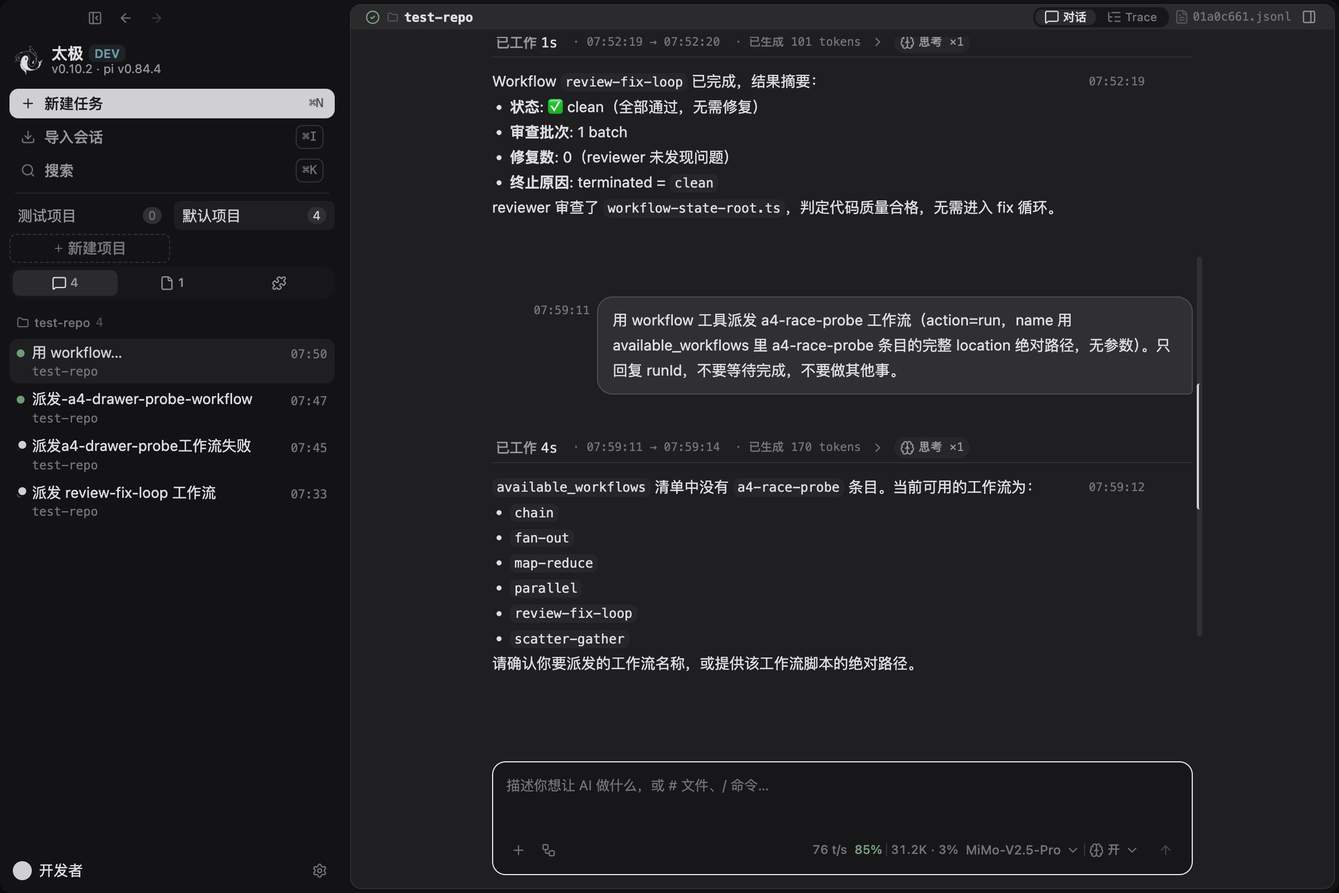
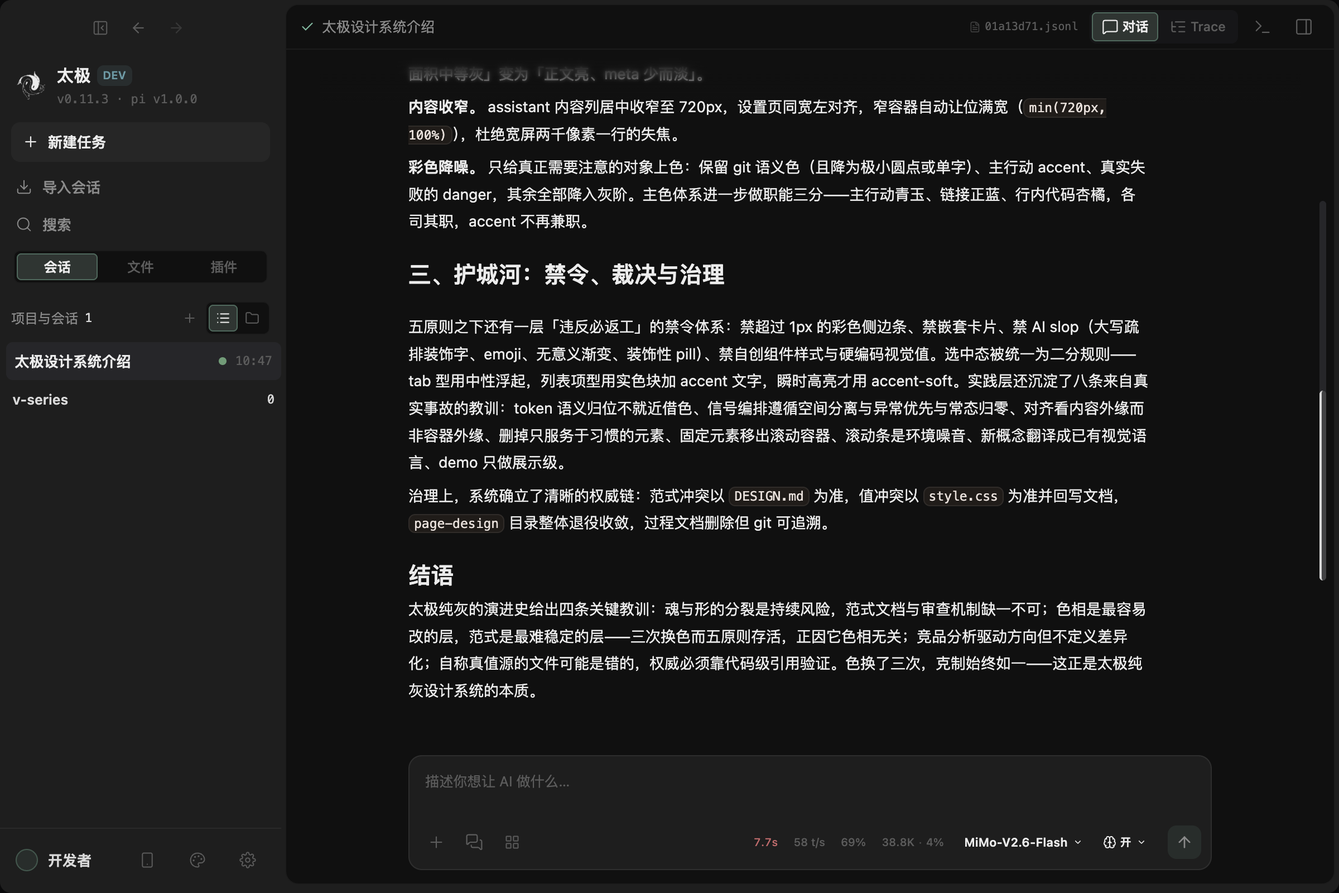
feat(skills): migrate dev-flow-wf artifacts to skill-data + word-scan mian inventory
- dev-flow-wf: artifact root moves from in-project .tmp/ to
  ~/.agents/skill-data/<project-slug>/ (HOME, naturally outside git);
  add single-wave delivery rule (one design package = one run, no
  user-instructed wave splitting); sync-planner gains files hard
  constraint (repo-internal existing files only, engine-validated)
- word-scan.py: add --mian-scan mode to inventory "面" compound words
  outside the wordlist; fix variant splitting for prose-prefixed cells
  and add 板/向 negative lookahead for 面-family false positives
- browser-automation: replace verify-demo-tmp/verify-final with a2-*
  probe scripts (autoswitch, clickblock, ws-probe); refresh screenshot

diff --git a/skills/self/prompting/meta-words-guidance/scripts/word-scan.py b/skills/self/prompting/meta-words-guidance/scripts/word-scan.py
@@ -6,6 +6,9 @@
     word-scan.py --watch ...         追加「观察名单」（待裁决词，仅提示）
     word-scan.py --conditional ...   追加「带条件保留表」（能用但需解释，仅提示）
     word-scan.py --all ...           三张表全扫
+    word-scan.py --mian-scan ...     面族候选盘点：枚举「面」复合构词（前后各 5 字
+                                     上下文），过滤白名单与已收录词面，输出待判断
+                                     候选（词表外同族词发现用，非命中报告）
     word-scan.py --wordlist <path>   指定词表文件（默认全局 AGENTS.md：
                                      ~/.zcode/AGENTS.md，回退 ~/.pi/agent/AGENTS.md）
 
@@ -55,14 +58,21 @@ ALL_TABLE_NAMES = (*TABLE_HEADERS, WHITELIST_TABLE)
 
 
 def split_variants(cell):
-    """把词表单元格拆成可匹配词面：去括号注、按 / 与 、拆分；括号内含 / 时并入变体。"""
+    """把词表单元格拆成可匹配词面：去括号注、按 / 与 、拆分；括号中含 / 的括号注并入变体。
+
+     prose 前缀剥离：单元格若含全角冒号（如面族条目的
+    「面族「XX 面」构词（...）：调用面 / 拒绝面 / ...」），冒号前是说明文字而非词面，
+    首个变体否则会被粘在前缀上永远匹配不到；变体尾部的「等」同理剥掉（枚举未尽标记）。
+    """
     parens = re.findall(r"[（(]([^（）()]*)[）)]", cell)
     base = re.sub(r"[（(][^（）()]*[）)]", "", cell)
+    if "：" in base:
+        base = base.split("：", 1)[1]
     parts = [base] + [p for p in parens if "/" in p]
     variants = []
     for part in parts:
         for v in re.split(r"\s*/\s*|、", part):
-            v = v.strip()
+            v = v.strip().rstrip("等")
             if v:
                 variants.append(v)
     return variants
@@ -72,6 +82,10 @@ def to_regex(term):
     pat = re.escape(term).replace("…", r".{0,30}?")
     if re.fullmatch(r"[A-Za-z0-9_-]+", term):
         pat = rf"(?<![A-Za-z0-9_-]){pat}(?![A-Za-z0-9_-])"
+    elif term.endswith("面"):
+        # 面族词的负向断言：后接「板」（XX面板，标准 UI 术语）或「向」（面向，动词）时
+        # 是子串误报——「聚合面∈聚合面板」「扩展面∈扩展面向」，非该族词的名词用法
+        pat = rf"{pat}(?![板向])"
     return re.compile(pat)
 
 
@@ -180,12 +194,63 @@ def scan_file(path, terms, is_wordlist):
     return hits, None
 
 
+def mian_inventory(paths, table_surfaces, whitelist):
+    """面族候选盘点（--mian-scan）：枚举「面」的复合构词，供词表外同族词发现。
+
+    对每个「面」出现点：取构成复合词（面结尾的最长中文串，≤6 字，剥前导虚词）+ 前 5 字
+    + 后 5 字上下文，按复合词聚合（次数 / 文件数 / 样本）。裸「面」（面向/面板/方面等
+    通用用法）与含虚词的语法碎片不构成候选。过滤两类已接管项：白名单词（如影响面）、
+    复合词含替换表词面为子串者（常规扫描已覆盖）。剩余即待判断候选——由人或 agent
+    按「X 的作用面」同族构词判据逐词裁定（通用词/标准术语如门面、切面、负面不属该族）。
+    跳过构建产物目录（apps/electron/resources/）与测试报告（test-results/）。
+    """
+    # 前导虚词（单字集合）：剥掉后剩下的才是词根（「…的导出面」→「导出面」）。
+    # 注意：必须是单字集合——lstrip 按字符集剥离，多字条目（如「依据」）会把「依赖面」
+    # 误剥成「赖面」这类尾坠；含虚词的复合词不再整体丢弃（「文本探针依赖面」是真实术语，
+    # 虚词判定交给判断方），只剥前导。
+    particles = "的了与和及该此各其或而则即都也还就才只把被从向对为以于在是有每另等随按"
+    compounds = {}
+    for f in iter_files(paths):
+        ps = str(f)
+        if ps.startswith("apps/electron/resources/") or "test-results" in ps:
+            continue
+        try:
+            text = f.read_text(encoding="utf-8")
+        except (OSError, UnicodeDecodeError):
+            continue
+        for lineno, line in enumerate(text.splitlines(), 1):
+            for m in re.finditer("面", line):
+                i = m.start()
+                before, after = line[:i], line[i + 1:]
+                run = []
+                for ch in reversed(before):
+                    if "\u4e00" <= ch <= "\u9fff" and len(run) < 8:
+                        run.append(ch)
+                    else:
+                        break
+                core = "".join(reversed(run))
+                while core and core[0] in particles:
+                    core = core[1:]
+                compound = core + "面"
+                if not core or compound in whitelist:
+                    continue
+                if any(s in compound for s in table_surfaces):
+                    continue
+                entry = compounds.setdefault(compound, {"count": 0, "files": set(), "samples": []})
+                entry["count"] += 1
+                entry["files"].add(ps)
+                if len(entry["samples"]) < 3:
+                    entry["samples"].append(f"{ps}:{lineno}: …{before[-5:]}【面】{after[:5]}…")
+    return compounds
+
+
 def main():
     ap = argparse.ArgumentParser(description="扫描文档命中用语词表的位置（详见文件头注释）")
     ap.add_argument("paths", nargs="+", help="文件或目录，可多个")
     ap.add_argument("--watch", action="store_true", help="追加观察名单")
     ap.add_argument("--conditional", action="store_true", help="追加带条件保留表")
     ap.add_argument("--all", action="store_true", help="三张表全扫")
+    ap.add_argument("--mian-scan", action="store_true", help="面族候选盘点：枚举「面」复合构词（前后各 5 字上下文），过滤白名单与已收录词面后输出待判断候选")
     ap.add_argument("--wordlist", type=Path, default=DEFAULT_WORDLIST, help="词表文件路径")
     args = ap.parse_args()
 
@@ -212,6 +277,17 @@ def main():
         for w in conflicts:
             print(f"错误：词「{w}」同时登记在白名单与其他表中，放行与限制矛盾——先修词表再扫描", file=sys.stderr)
         return 2
+
+    if args.mian_scan:
+        surfaces = {v for _, v, _, _ in full_terms}
+        inventory = mian_inventory(args.paths, surfaces, whitelist)
+        for compound, entry in sorted(inventory.items(), key=lambda kv: -kv[1]["count"]):
+            print(f"{compound}｜{entry['count']} 处｜{len(entry['files'])} 文件")
+            for s in entry["samples"]:
+                print(f"    {s}")
+        print(f"{len(inventory)} 个候选复合词（已过滤白名单与替换表已收录词面；通用词/标准术语需判断后剔除）")
+        return 0
+
     all_hits, skipped = [], 0
     wordlist_resolved = args.wordlist.resolve()
     for f in iter_files(args.paths):

diff --git a/skills/self/dev-workflow/dev-flow-wf/SKILL.md b/skills/self/dev-workflow/dev-flow-wf/SKILL.md
@@ -18,14 +18,14 @@ description: >-
 
 ## 设计包入口门 [MANDATORY]（机械可查）
 
-入口逐行核对（任一缺失 → 拒绝并指明缺什么、回 tech-design-wf 哪个阶段补）：
+入口逐行核对（任一缺失 → 拒绝并指明缺什么、回 tech-design-wf 哪个阶段补；`<project-slug>` = 项目根 basename + "-" + 项目根绝对路径 sha256 前 8 位十六进制，脚本自动拼）：
 
 | 文件 | 判据 |
 |------|------|
-| `.tmp/tech-design/<name>.md` | 存在 |
-| `<name>.impl-plan.md` + `.impl-plan.json` | 存在且单元 id 集一致 |
-| `.tmp/tech-design/<name>/final.json` | terminated == "converged" |
-| `<name>.plan-review.md` | 触发门槛（关键路径深度 ≥3 或单元 ≥4）时必须存在 |
+| `~/.agents/skill-data/tech-design/<project-slug>/<name>.md` | 存在 |
+| `<name>.impl-plan.md` + `.impl-plan.json`（与设计文档同目录） | 存在且单元 id 集一致 |
+| `<name>/final.json`（审查报告目录，与设计文档同根） | terminated == "converged" |
+| `<name>.plan-review.md`（与设计文档同目录） | 触发门槛（关键路径深度 ≥3 或单元 ≥4）时必须存在 |
 
 **外部设计文档直投** → 拒绝，转 tech-design-wf（先补 T2 审查再 T3 拆计划）。
 
@@ -50,21 +50,22 @@ description: >-
 3. **验证方式分级 L0-L4**（低成本高收益前置）：L0 静态规则（主 agent/world.run 直跑）→ L1 增量单测（节点/dev 自跑）→ L2 全量套件（D2 Gate A）→ L3 脚本端到端（verify 节点）→ L4 agent 端到端（inspect 节点）。低级未清不进高级
 4. **范围对账**：节点/dev 优先改任务书声明范围内的文件；范围外的必要改动直接做 + 自报 deviations/自报清单如实登记——运行时不再逐文件打回（2026-09-29 裁决范围声明降级），改动对账由核验对账事件、终态残留核查与 D2 一致性审查承接；并行单元互不触碰对方声明内的文件（写冲突会互相覆盖丢改动，不可恢复）
 5. **git 单点**：subagent 禁止一切 git 写；workflow 形态下 commit 由引擎 world.run 执行（精确路径 add，禁 -A），手工形态下由主 agent 执行；文档类同步改动禁止单独成笔——随触发它的单元同笔提交（files_changed 含文档路径即同笔）；确因验收结论后置的攒批成一笔，禁止一文档一笔
-6. **基线先行**：exec-plan.json 落盘即基线（`.tmp/` 不入 git）；执行态事实源 = `<name>.status.json`
+6. **基线先行**：exec-plan.json 落盘即基线（产物在 `~/.agents/skill-data/`，HOME 下天然不入 git）；执行态事实源 = `<name>.status.json`
+7. **单波次交付**：一个设计包 = 一次实施流程，实际执行只有一个波次；未经用户明确指示，禁止按「波次/批次」把一个 impl-plan 拆成多次独立实施（每波各自走 D1-D6 完整流程）。允许的拆分 = impl-plan 内部的单元分组与 DAG 并行（多 subagent / 多组执行，W2 一次承接全部单元）；分期交付仅随用户明确指示出现
 
 ## 运行记录（防丢失）[MANDATORY]
 
-任务执行期信息统一平铺落 `.tmp/dev-flow/`（`<name>.` 前缀隔离，与既有产物族同基准），两类载体、三条写入通道：
+任务执行期信息统一平铺落 `~/.agents/skill-data/dev-flow/<project-slug>/`（`<name>.` 前缀隔离；设计包在同根 `tech-design/<project-slug>/` 段，slug 同源），两类载体、三条写入通道：
 
 | 载体 | 写入者 | 内容 |
 |------|--------|------|
 | `<name>.runlog/<记录者>.md` | 每个执行 agent（任务书 / W3·W4 prompt 注入义务行，路径由注入方给出） | 过程性发现：临时待办、需裁决事项、复盘观察（踩坑根因 / 方案取舍 / 环境异常）。一行一条 `[HH:MM] 类型: 一句话事实`，append 式即时写盘——agent 中途退出也留痕；每记录者独占一文件，无并发冲突 |
 | `<name>.ledger.md` | ① W2/W3/W4 引擎终态各一笔（attempt 标识）② 主 agent 处置时追加 | ① 未决事项清单：blocked / deferredCommits / deferredLedger / escalated / contested / overdesignCandidates / 工作区残留等 ② 熔断处置与用户裁决记录（时间 + 终态 + 动作 + 理由 + 结果） |
 
-- 引擎侧已核实互不干扰：porcelain 核验把 `.tmp/` 过滤在清单外（wave-executor `isTmpArtifact`），agent 写 runlog 不触发核验红灯
+- 引擎侧已核实互不干扰：产物在 HOME 下不在项目工作区内，`git status --porcelain` 天然看不到（引擎对项目内 `.tmp/` 的过滤器仍在——wave-executor `isTmpArtifact`，覆盖仍在项目内的其他临时产物），agent 写 runlog 不触发核验红灯
 - **ledger 是中转不是归宿**：合理偏差 / 残留风险 / ADR 的最终登记处仍是 impl-plan §5、impl-plan 残留风险节、docs/adr——D4 收尾把未清项分流过去（处置完成标记 / 登记到既有归宿 / 显式记录丢弃理由），禁止双登记并存
 - 主 agent 处置熔断终态（各 flow 终态处置表任一行）与用户裁决落地时，append 处置记录到 ledger
-- 档案交付后默认保留（`.tmp/` 不入 git），仅用户指示时清理（D4 第 7 条）
+- 档案交付后默认保留（HOME 下天然不入 git），仅用户指示时清理（D4 第 7 条）
 
 ## Workflow 契约（执行体按宿主环境选择）
 
@@ -96,7 +97,7 @@ description: >-
 
 ## 状态恢复
 
-进度唯一事实源 = `<name>.status.json`（D0 生成，workflow/手工路径每次节点终态后回写）。恢复程序：以 git log 与工作区实物校准 status（**冲突以 git 为准**：标 done 无 commit → 回 pending；有 commit 未写 → 补写 done）→ 按所处段选 flow 落点续跑。
+进度唯一事实源 = `<name>.status.json`（D0 生成于 `~/.agents/skill-data/dev-flow/<project-slug>/`，实际落点以 exec-plan 内 statusPath 声明为准；workflow/手工路径每次节点终态后回写）。恢复程序：以 git log 与工作区实物校准 status（**冲突以 git 为准**：标 done 无 commit → 回 pending；有 commit 未写 → 补写 done）→ 按所处段选 flow 落点续跑。
 
 ## 与老 dev-flow 的关系（灰度并行）
 

diff --git a/skills/self/dev-workflow/dev-flow-wf/flow/compile.md b/skills/self/dev-workflow/dev-flow-wf/flow/compile.md
@@ -1,6 +1,6 @@
 # D0 编译 — 设计包 → 执行数据结构
 
-> 一次性判断性工作（主 agent 亲为），替代此后每单元的重复手工编排。产物：`<name>.exec-plan.json` + `<name>.prompts/*.md` + 初始 `<name>.status.json` + `<name>.runlog/` 目录 + `<name>.ledger.md` 头部初始化，全部落 `<项目根>/.tmp/dev-flow/`（不入 git）。完成后进 D1。
+> 一次性判断性工作（主 agent 亲为），替代此后每单元的重复手工编排。产物：`<name>.exec-plan.json` + `<name>.prompts/*.md` + 初始 `<name>.status.json` + `<name>.runlog/` 目录 + `<name>.ledger.md` 头部初始化，全部落 `~/.agents/skill-data/dev-flow/<project-slug>/`（HOME 下天然不入 git；`<project-slug>` = 项目根 basename + "-" + 项目根绝对路径 sha256 前 8 位，脚本自动拼）。项目内 `.tmp/dev-flow/` 未整体废弃——acceptance/plan-mode 脚本族的既有用法不属本流程产物。完成后进 D1。
 
 ## 编译清单（按序执行）
 
@@ -15,10 +15,10 @@
   "version": 1,
   "mode": "dev",                       // dev（D1）| acceptance（D3）
   "projectRoot": "<项目根绝对路径>",      // 引擎缺省 cwd（W2/W3 消费；节点 cwd 为 null 时用）
-  "planPath": ".tmp/tech-design/<name>.impl-plan.json",
-  "designDocPath": ".tmp/tech-design/<name>.md",
+  "planPath": "~/.agents/skill-data/tech-design/<project-slug>/<name>.impl-plan.json",
+  "designDocPath": "~/.agents/skill-data/tech-design/<project-slug>/<name>.md",
   "baseline": "<git rev-parse HEAD>",
-  "statusPath": ".tmp/dev-flow/<name>.status.json",
+  "statusPath": "~/.agents/skill-data/dev-flow/<project-slug>/<name>.status.json",
   "testPlan": {                        // 从 impl-plan.json 的 testPlan 继承（W3 Gate A 消费，缺失即 fail-fast）
     "incremental": "…",                // 可选：修复组核验用的增量测试
     "fullSuite": { "program": "pnpm", "args": ["…"] },  // 必填：项目全量命令（含 lint/typecheck，从项目配置真实读取合成；复杂多命令封装为脚本走 bash）
@@ -32,7 +32,7 @@
       "designRef": "§3.2",              // 设计章节锚（从 impl-plan 章节映射提取；commit 渲染时前置于 summary——老三要素保真：unit id + 设计章节 + 测试结论）
       "territory": ["packages/shared/src/..."],   // 相对该节点 cwd 所在 git 仓库根（与 files_changed / porcelain 同基准；禁绝对路径——引擎启动校验拒绝）
       "testCommand": { "program": "pnpm", "args": ["-C", "packages/shared", "test"] },
-      "promptFile": ".tmp/dev-flow/<name>.prompts/u-foundation.md" }
+      "promptFile": "~/.agents/skill-data/dev-flow/<project-slug>/<name>.prompts/u-foundation.md" }
   ],
   "acceptance": {                       // D3 实例化时生成（本步先空着）
     "nodes": [],                        // kind=verify（script/artifactsDir）| inspect（promptFile/artifactsRefs/deps）
@@ -66,7 +66,7 @@
 
 - L0 静态检查基线：lint / typecheck / 项目检查脚本在 baseline 上全绿记录（命令从项目 AGENTS.md / package.json scripts 真实读取，禁凭记忆编）
 - 产物类条目编入 testPlan.artifacts（引擎 Gate A 第一波并行预备，见 §2 testPlan 注释；禁只标注不落位）
-- 覆盖矩阵骨架：从 impl-plan 范围声明表 × 验收计划表生成「单元声明范围 × 计划用例」骨架表落 `.tmp/dev-flow/<name>.coverage.md`（D4 收尾时回填实际覆盖并处置 uncovered 区——补测试或登记理由）
+- 覆盖矩阵骨架：从 impl-plan 范围声明表 × 验收计划表生成「单元声明范围 × 计划用例」骨架表落 `~/.agents/skill-data/dev-flow/<project-slug>/<name>.coverage.md`（D4 收尾时回填实际覆盖并处置 uncovered 区——补测试或登记理由）
 - 章节映射锚点核对：逐条 read 设计文档核对 §N 实际存在，对不上停回 tech-design-wf T3（不猜测）
 - （进 D3 前）环境 smoke：场景依赖的每个环境面跑无 LLM 探针验证可用；剧本 dry-run：机械断言先对样本数据跑通；bash 语义歧义点（管道子 shell 的 cwd 隔离、`$()` 剥尾换行、引号嵌套、**管道退出码陷阱**）逐行过一遍——`cmd | tail; echo $?` 取的是管道末段（tail）的退出码，主命令失败会被判绿，验收/测试命令一律无管道形态 `cmd > log 2>&1; echo "EXIT=$?"`，判定读 EXIT 行 + grep 日志，禁止 `| tail`/`| head` 后跟 `$?`/`&&` 判定退出；采样管道复用检查：read 项目采样管道文档，已有脚本直接复用，新做法记录回写（进管道文档），禁现场重写管道；多实例分配：互斥场景组绑独立 dev 实例（装配器端口段派生 + 独立数据目录）
 - **verify 剧本每步汇总落盘 [MANDATORY]**：剧本骨架的 step 函数每步结束时向 `<artifactsDir>/summary.jsonl` 追加一行 JSON：`{"step":"<步骤名>","command":"<命令>","exitCode":<n>,"stats":"<vitest/断言统计行，可空>"}`——供 L4 inspect 以汇总文件为准核对（只读 summary、仅异常步骤读全文日志；实测 inspect 逐个全文读 19 份日志耗 259 万 token 占 D3 时长 85.7%，2026-09-29）。step 函数自身拿不到 artifactsDir 时由剧本头部变量注入

diff --git a/skills/self/dev-workflow/dev-flow-wf/flow/sync.md b/skills/self/dev-workflow/dev-flow-wf/flow/sync.md
@@ -1,6 +1,6 @@
 # D5 终态同步 — W4 design-code-sync-loop 契约与手工路径
 
-> 把「代码实现 vs 设计文档」差距收敛到 0 must-fix 的**双向**校准循环。审查对象 = **当前 HEAD 终态全量**（不是 diff 区间——交付后的修复 commit 不在任何流水线记录里，只有全量对照能抓到）。报告落 `<项目根>/.tmp/dev-flow/<name>.sync/round-N/`。
+> 把「代码实现 vs 设计文档」差距收敛到 0 must-fix 的**双向**校准循环。审查对象 = **当前 HEAD 终态全量**（不是 diff 区间——交付后的修复 commit 不在任何流水线记录里，只有全量对照能抓到）。报告落 `~/.agents/skill-data/dev-flow/<project-slug>/<name>.sync/round-N/`。
 
 ## W4 workflow 契约（zcode 环境默认动作）
 
@@ -83,7 +83,7 @@ a. 代码 ↔ 设计文档（主对照）→ framework-scan + 模块 reviewer；
 
 ## 伴生产物退役判定（converged 时）
 
-本设计相关产物去留：已在 `.tmp/` 的（设计文档/impl-plan/审查报告）合规无需处理；残留在 docs/ 的伴生产物（旧惯例 `.review*` / probe）→ 移入 `.tmp/design-doc-retirement/`（引用验证：按完整文件名全仓 grep，任一命中不退役；移动后反向复验悬空链接）；被整体取代的旧设计文档零外部引用 → 同目录退役。退役移动结果与依据记入 final.json 的 retirement 字段；退役目录同时写 README.md 索引（文件名/日期/依据/找回方式）。判定结果进交付汇报（退役 N / 保留 N 含依据 / 无可退役显式说）。
+本设计相关产物去留：已在 `~/.agents/skill-data/` 的（设计文档/impl-plan/审查报告）合规无需处理；残留在 docs/ 的伴生产物（旧惯例 `.review*` / probe）→ 移入项目内 `.tmp/design-doc-retirement/`（引用验证：按完整文件名全仓 grep，任一命中不退役；移动后反向复验悬空链接）；被整体取代的旧设计文档零外部引用 → 同目录退役。退役移动结果与依据记入 final.json 的 retirement 字段；退役目录同时写 README.md 索引（文件名/日期/依据/找回方式）。判定结果进交付汇报（退役 N / 保留 N 含依据 / 无可退役显式说）。
 
 ## 手工降级路径
 

diff --git a/skills/self/dev-workflow/dev-flow-wf/flow/acceptance.md b/skills/self/dev-workflow/dev-flow-wf/flow/acceptance.md
@@ -30,7 +30,7 @@
 ## D4 收尾（主 agent，不 workflow 化）
 
 1. 全绿交付汇总：目标达成对照表 + 合理偏差登记表 + 残留风险 + 覆盖概览 + 剧本分流结果
-2. 最终 commit（可复用 e2e spec、文档登记；impl-plan/exec-plan/status 不入 git——`.tmp/` 禁 add）
+2. 最终 commit（可复用 e2e spec、文档登记；impl-plan/exec-plan/status 落 `~/.agents/skill-data/`，HOME 下天然不入 git）
 3. **功能分级登记同步**：新功能/新用例或「挂掉后果」变化 → 同 commit 更新（如 `docs/FEATURE-PRIORITIES.md`）；纯重构不触发；零触发也须汇报注明
 4. **文档资产更新检查**：对照项目 AGENTS.md 文档索引按变更内容判定同 commit 更新（产品→PRODUCT / 拓扑→ARCHITECTURE / 术语→CONTEXT / 视觉→DESIGN / 规范→STANDARDS / 测试→TEST-STRATEGY / 排障→TROUBLESHOOTING；采样管道资产同 commit 回写）；零触发注明「文档资产零同步」
 5. **ADR 复审**：对照本次交付复审（开发中拍板的重要决策漏登的补登记；既有 ADR 被推翻的修订）；核对来源优先 = 设计文档头部「关联登记清单」字段（历史文档同义旧字段名等同——凡头部以「关联登记」开头的字段即认作该字段；字段缺失按变更语义扫描兜底）；零触发注明「ADR 零同步」

diff --git a/skills/self/dev-workflow/dev-flow-wf/agents/sync-planner.md b/skills/self/dev-workflow/dev-flow-wf/agents/sync-planner.md
@@ -37,6 +37,10 @@ description: "dev-flow-wf D5 终态同步的两级审查拓扑第一级（framew
     无对应模块的条目归入 frameworkFindings 立项（severity=suggestion，gap
     标注「职责域外待裁决：<修复动作属什么域>」），随框架发现呈报主 agent
     ——禁止塞进职责不匹配的模块
+4b. files 硬性约束（引擎机器校验，不过整单打回重产）：modules 的每条 files
+    路径必须是仓库内既有文件——绝对路径以 <cwd> 为前缀；相对路径解析后落在
+    仓库内；且磁盘已存在。禁止仓库外路径（如 /tmp 下目录）与计划性待建文件
+    （impl-plan 声明但不存在的文件应作为 frameworkFindings 立项，不塞进 files）
 5. 越权行三问初评：verdict = 越权实现的行，对实现侧做「过度/存疑/合理」三问
    初评（小取舍？大简化？核心价值不变？），结论写进 matrixRow.overdesign——
    引擎按该字段判过度/存疑档转候选卡呈报（用户裁决后才动删码），字段缺失或

diff --git a/skills/self/dev-workflow/dev-flow-wf/agents/parallelism-reviewer.md b/skills/self/dev-workflow/dev-flow-wf/agents/parallelism-reviewer.md
@@ -5,7 +5,7 @@ description: "审查 impl-plan 并行度与调度结构（T3 阶段由 tech-desi
 
 # 实施计划并行度审查 Agent
 
-审查对象：impl-plan 的并行度与调度结构（T3 阶段由 tech-design-wf 派发本审查；impl-plan 落 `.tmp/tech-design/`，路径由 task prompt 给出）。**只审查、只报告，不修改计划**（修改由主 agent 裁决后做）。
+审查对象：impl-plan 的并行度与调度结构（T3 阶段由 tech-design-wf 派发本审查；impl-plan 落 `~/.agents/skill-data/tech-design/<project-slug>/`，路径由 task prompt 给出）。**只审查、只报告，不修改计划**（修改由主 agent 裁决后做）。
 
 ## 身份设定：默认怀疑串行过度
 

diff --git a/skills/self/dev-workflow/dev-flow-wf/flow/execute.md b/skills/self/dev-workflow/dev-flow-wf/flow/execute.md
@@ -6,7 +6,7 @@
 
 ```
 CreateWorkflow saved: wave-executor
-args: { execPlan: "<项目根>/.tmp/dev-flow/<name>.exec-plan.json" }
+args: { execPlan: "~/.agents/skill-data/dev-flow/<project-slug>/<name>.exec-plan.json" }
 ```
 
 引擎内循环（每节点四节拍，全部确定性代码 + 一次 agent 会话）：
